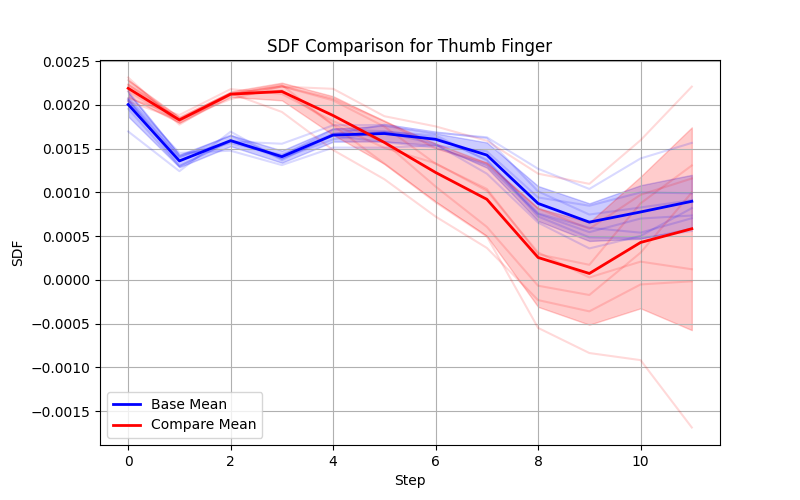
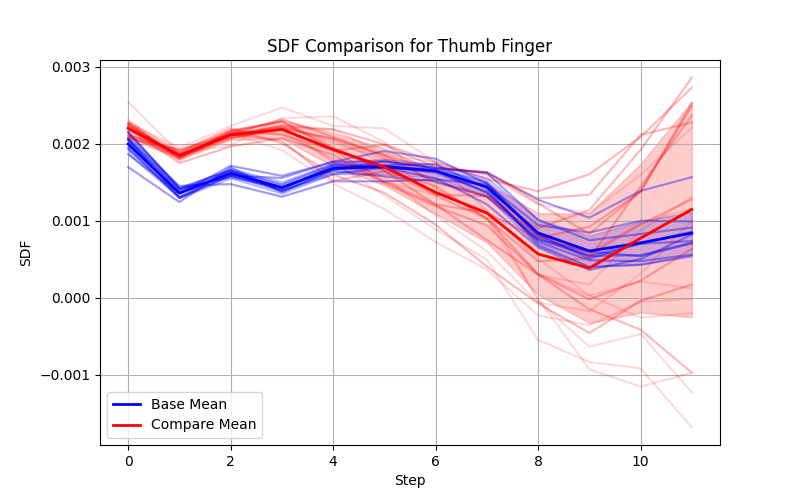
fix: 更新实验名称和数据比较参数

diff --git a/data_compare.py b/data_compare.py
@@ -6,12 +6,12 @@ import matplotlib.pyplot as plt
 #####################################
 # 1. 定义两个目录：base_dir, compare_dir
 #####################################
-base_dir = './data/experiments/allegro_screwdriver_diff_only_2./csvgd'
+base_dir = './data/experiments/allegro_screwdriver_diff_only_1./csvgd'
 compare_dir = './data/experiments/allegro_screwdriver_diff_init_sdf_guided_1./csvgd'
 save_dir = './data/experiments/'
 
 # trial 和 stage 的范围
-num_trials = 7
+num_trials = 30
 num_stages = 12
 
 

diff --git a/make_video.py b/make_video.py
@@ -36,6 +36,6 @@ def create_video_from_folder(folder_path, output_path, fps=30):
     print("saved in", output_path)
 
 
-folder_path = './data/index/index_1'
-output_path = folder_path + '/index_1.mp4'
+folder_path = './data/experiments/allegro_screwdriver_diff_init_sdf_guided_1./csvgd/trial_1'
+output_path = folder_path + '/diff_init_sdf_guided.mp4'
 create_video_from_folder(folder_path, output_path)
